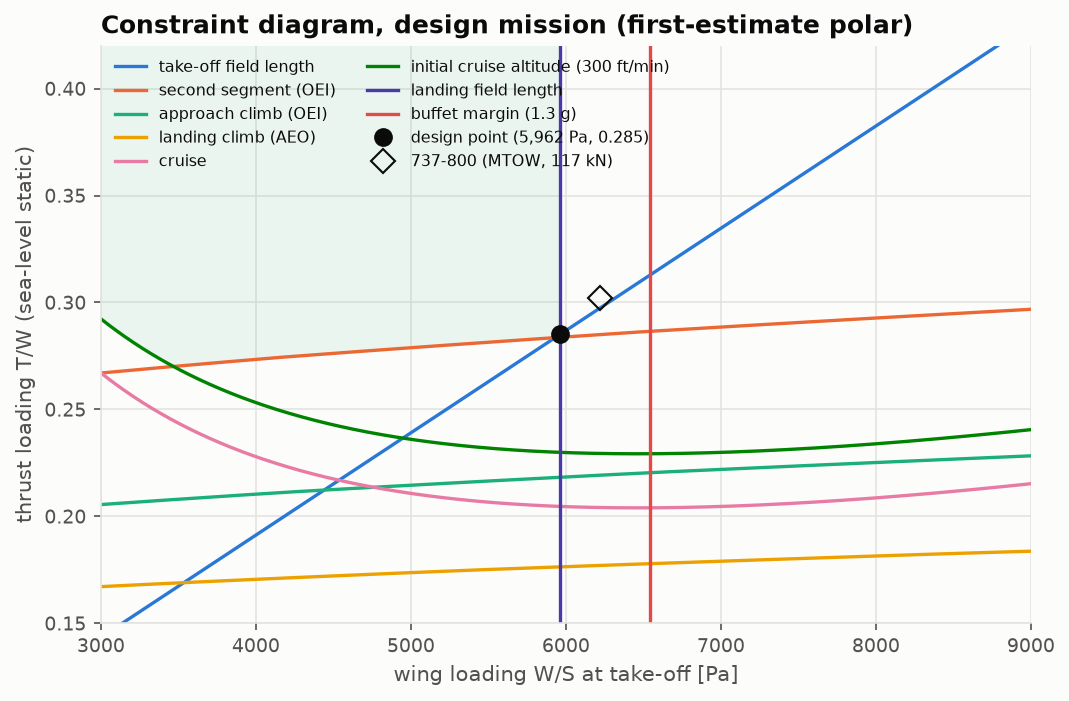
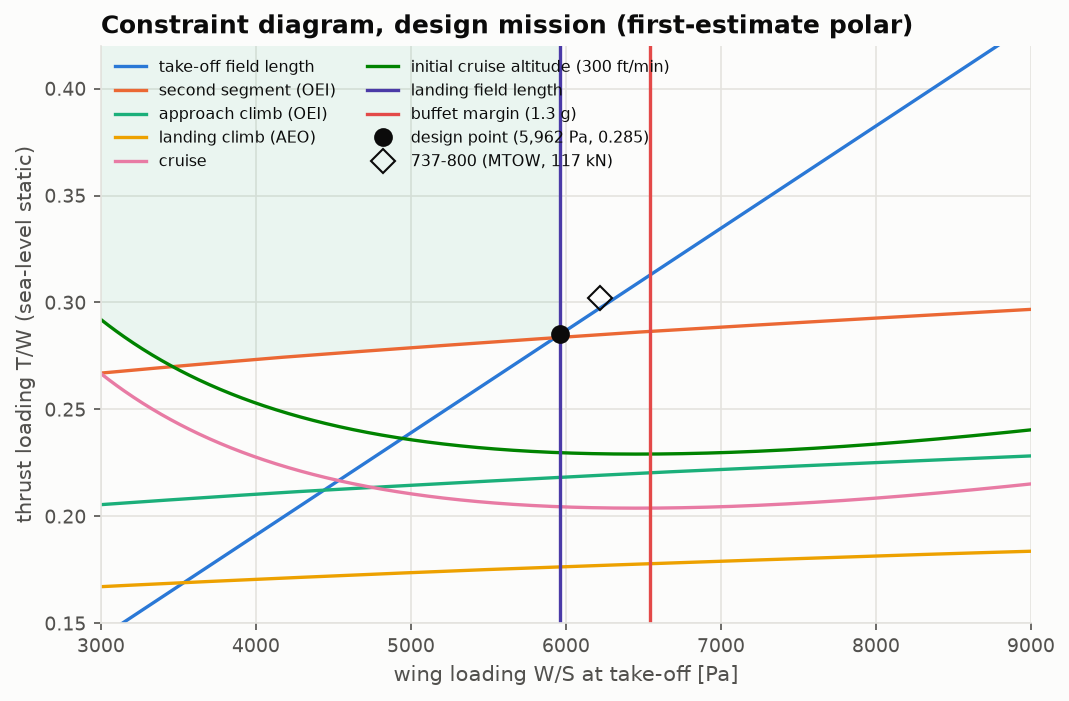
Regenerate the Phase 2-3 results with the shared sizing inputs
The 737-800 class II inputs moved onto acdesign.sizing in Phase 4 (mean t/c
for the wetted area, landing CLmax 2.7 for the gear); the class I and
constraint tables shift in the last digit (class I +1.7 % instead of
+1.8 %, OEW 36,571 kg, still -11.7 %). Lessons 2-3 and the theory note
follow.

diff --git a/validation/results/weights.md b/validation/results/weights.md
@@ -6,23 +6,23 @@ Generated by `validation/weight_validation.py`.
 
 | quantity | value |
 |---|---|
-| S_wet/S_ref (reference geometry) | 6.22 |
-| (L/D)max, wetted aspect ratio | 19.10 |
-| cruise L/D (0.866 (L/D)max) | 16.54 |
+| S_wet/S_ref (reference geometry) | 6.21 |
+| (L/D)max, wetted aspect ratio | 19.11 |
+| cruise L/D (0.866 (L/D)max) | 16.55 |
 | cruise TSFC (AERO-03 engine, 22 kN, FL350 M0.78) | 17.12 mg/(N s) |
-| fuel fraction Wf/W0 | 0.2970 (trip 0.2428) |
-| empty fraction We/W0 | 0.4939 |
-| **W0** | **80,444 kg** (177,349 lb) |
-| 737-800 MTOW | 79,016 kg; model +1.8% |
+| fuel fraction Wf/W0 | 0.2969 (trip 0.2427) |
+| empty fraction We/W0 | 0.4940 |
+| **W0** | **80,398 kg** (177,247 lb) |
+| 737-800 MTOW | 79,016 kg; model +1.7% |
 
 ## Class II, 737-800 geometry at MTOW (no calibration)
 
 | group | mass [kg] |
 |---|---|
-| structure | 18,905 |
+| structure | 18,900 |
 | propulsion | 5,092 |
 | systems | 10,644 |
 | operating items | 1,935 |
-| empty (structure + propulsion + systems) | 34,641 |
-| **OEW** | **36,576** |
+| empty (structure + propulsion + systems) | 34,636 |
+| **OEW** | **36,571** |
 | 737-800 OEW (D6-58325-7 2.1.3) | 41,413; model -11.7% |

diff --git a/docs/lessons/02-weight-estimation.md b/docs/lessons/02-weight-estimation.md
@@ -71,9 +71,9 @@ For jets, the best range comes at $\sqrt3/2$ of the maximum L/D.
 
 ## 3. Class I for the design mission
 
-With the 737-800's wetted area ratio, 6.22, the correlation gives (L/D)max = 19.1. Add
+With the 737-800's wetted area ratio, 6.21, the correlation gives (L/D)max = 19.1. Add
 AERO-03's cruise TSFC and the reserves of Lesson 1. Class I then sizes the design mission
-to **80.4 t, 1.8 % above the 737-800's MTOW**.
+to **80.4 t, 1.7 % above the 737-800's MTOW**.
 
 ![Class I convergence](../figures/weights_class_one.png)
 
@@ -123,11 +123,11 @@ Run on the published 737-800 geometry at MTOW, with no input tuned:
 
 | Group | Mass [kg] |
 |---|---|
-| structure | 18,905 |
+| structure | 18,900 |
 | propulsion | 5,092 |
 | systems (incl. furnishings 6,289) | 10,644 |
 | operating items | 1,935 |
-| **OEW** | **36,576**, vs 41,413 published: **−11.7 %** |
+| **OEW** | **36,571**, vs 41,413 published: **−11.7 %** |
 
 ![Class II breakdown](../figures/weights_class_two.png)
 

diff --git a/validation/results/constraints.md b/validation/results/constraints.md
@@ -1,6 +1,6 @@
 # Constraint analysis
 
-Generated by `validation/constraint_validation.py`. First-estimate polar: CD0 = 0.01617 (C_fe = 0.0026), e = 0.771, A = 9.44; CLmax take-off 2.1, landing 2.7 (assumptions).
+Generated by `validation/constraint_validation.py`. First-estimate polar: CD0 = 0.01614 (C_fe = 0.0026), e = 0.771, A = 9.44; CLmax take-off 2.1, landing 2.7 (assumptions).
 
 ## Requirements at the design wing loading
 
@@ -8,10 +8,10 @@ Generated by `validation/constraint_validation.py`. First-estimate polar: CD0 = 
 |---|---|
 | take-off field length | 0.2851 |
 | second segment (OEI) | 0.2837 |
-| approach climb (OEI) | 0.2183 |
+| approach climb (OEI) | 0.2182 |
 | landing climb (AEO) | 0.1764 |
-| cruise | 0.2047 |
-| initial cruise altitude (300 ft/min) | 0.2299 |
+| cruise | 0.2045 |
+| initial cruise altitude (300 ft/min) | 0.2298 |
 | landing field length (max W/S) | 5,962 Pa |
 | buffet margin (1.3 g) (max W/S) | 6,540 Pa |
 

diff --git a/docs/lessons/03-constraint-diagram.md b/docs/lessons/03-constraint-diagram.md
@@ -65,7 +65,7 @@ CLmax,TO = **2.09**. The assumed 2.1 is consistent with that, but it was chosen 
 
 ![Constraint diagram](../figures/constraint_diagram.png)
 
-Use the first-estimate polar ($C_{D_0}$ = 0.0026 · 6.22 = 0.0162, Raymer's e = 0.771):
+Use the first-estimate polar ($C_{D_0}$ = 0.0026 · 6.21 = 0.0161, Raymer's e = 0.771):
 
 - the landing field length caps W/S at **5,962 Pa**;
 - at that wing loading the take-off field length needs T/W = **0.285**;

diff --git a/docs/weight_estimation.md b/docs/weight_estimation.md
@@ -44,6 +44,6 @@ ft/s or nmi at its boundary, with the exact factors of [`units.py`](../src/acdes
 
 ## Validation
 
-- **Class I** sizes the design mission to 80.4 t, 1.8 % above the 737-800 MTOW.
+- **Class I** sizes the design mission to 80.4 t, 1.7 % above the 737-800 MTOW.
 - **Class II** on the 737-800's published geometry gives an OEW 11.7 % below Boeing's
   (uncalibrated). See the [design report](design-report.md).
